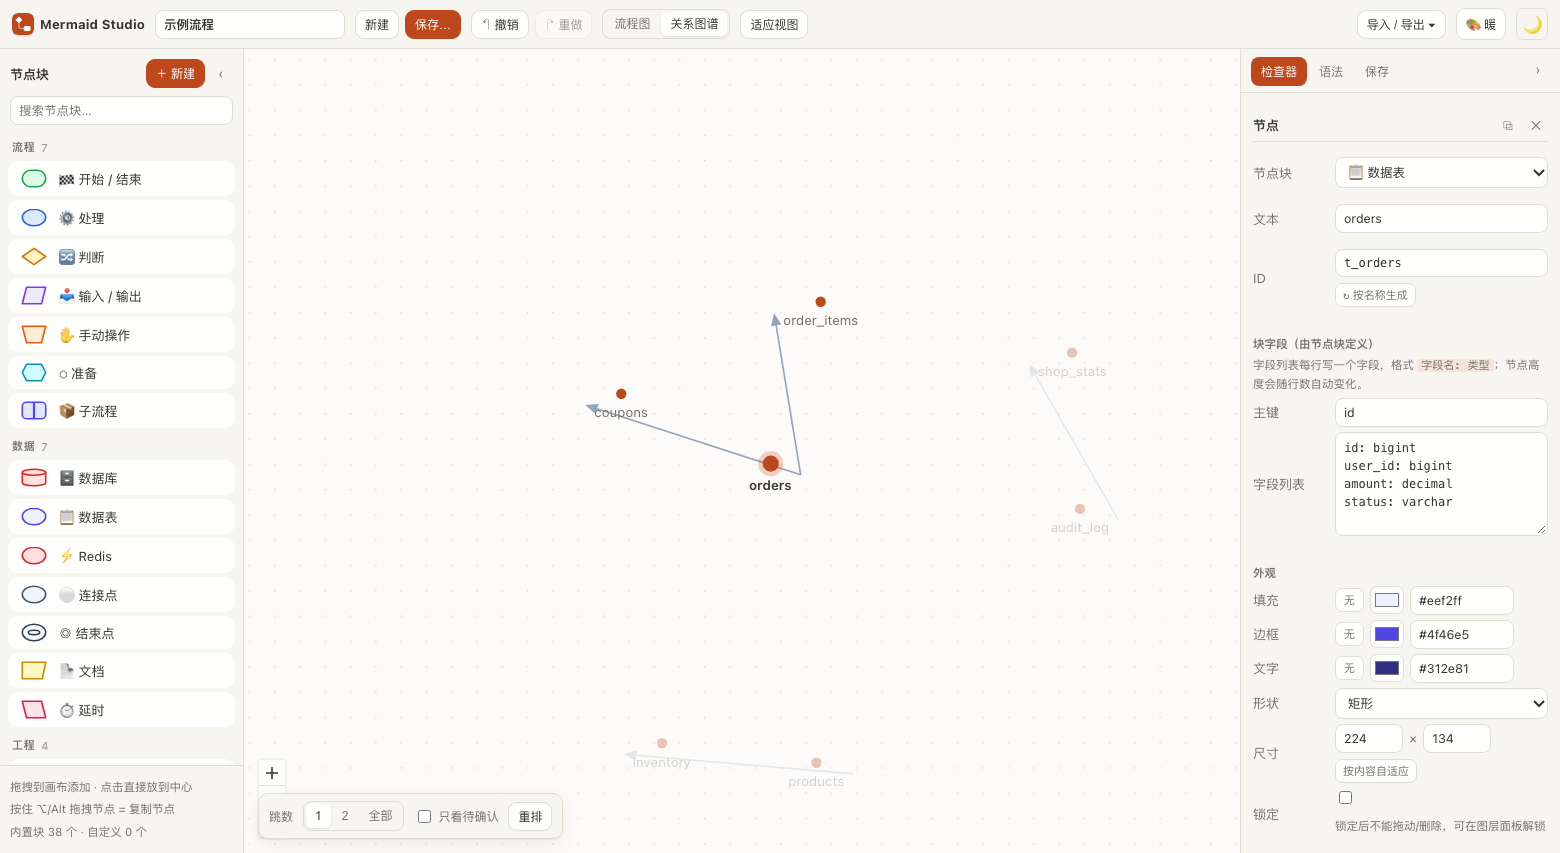
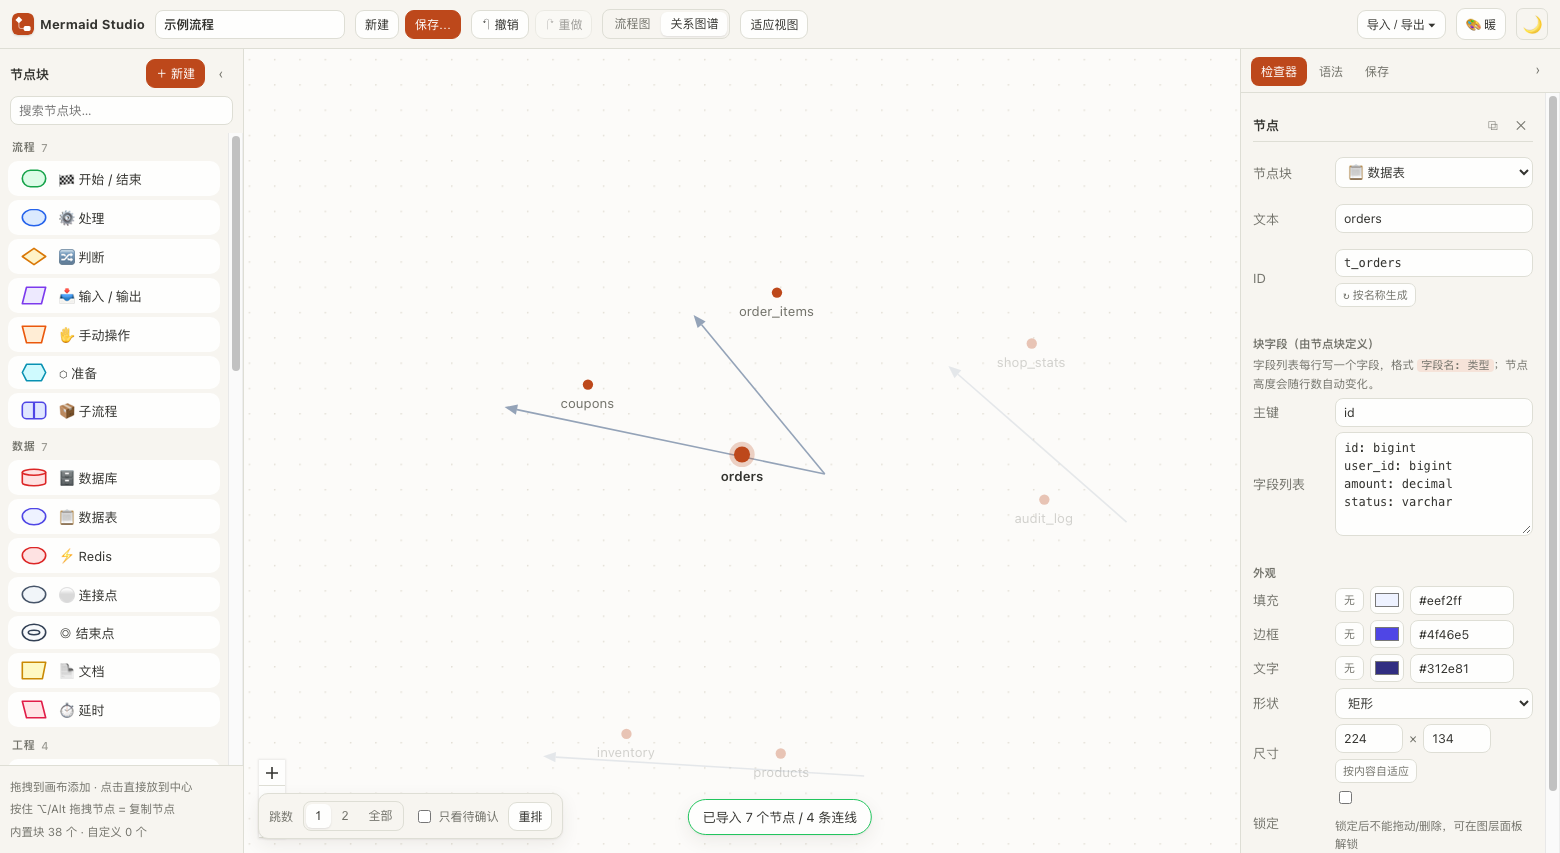
关系图谱：打开即圆心聚焦 + 节点可拖动
- 打开图谱就有焦点：流程图里选中的表（没有则度数最高的表），落在圆心
- 焦点钉在原点后，视口用自算缩放 + setCenter 把圆点摆到画布正中；
  不再 fitView 后再 setCenter（fitView 的动画会覆盖它，导致稳定偏一截）
- 统一坐标换算：布局算圆点中心，React Flow 的 position 是框左上角；节点框固定 140x56
- 节点可拖动：只写视图内的 overrides，不碰文档；「重排」清掉；焦点节点在重排那一刻才让位
- e2e 增加「打开即有焦点且在圆心」「拖动只移动该点」「拖动不写回文档」；全量 409 条通过
- 文档补两条实现坑（fitView 动画覆盖、左上角/中心换算）

diff --git a/src/components/GraphView.tsx b/src/components/GraphView.tsx
@@ -6,12 +6,13 @@ import {
   ReactFlow,
   ReactFlowProvider,
   useReactFlow,
+  type NodeChange,
 } from '@xyflow/react'
 import '@xyflow/react/dist/style.css'
 import { useStore } from '../store'
 import { getRfInstance, setRfInstance } from '../lib/rf'
 import { bfsHops, deriveGraphModel, graphSignature } from '../lib/graphModel'
-import { CARD_RADIUS, DOT_RADIUS, DEFAULT_SEED, layoutGraph } from '../lib/graphLayout'
+import { CARD_RADIUS, DOT_RADIUS, DEFAULT_SEED, defaultRootId, layoutGraph } from '../lib/graphLayout'
 import { GraphDotNode, type GraphDotNodeModel } from './GraphDotNode'
 import { GraphEdgeView, type GraphEdgeModel } from './GraphEdgeView'
 
@@ -28,6 +29,24 @@ const BUSY_NODES = 250
  */
 const FOCUS_DELAY_MS = 280
 
+/** 节点在画布上的固定占位框：圆点在顶部正中，名字在下面 */
+const NODE_W = 140
+const NODE_H = 56
+/** 圆点中心距节点框顶部的距离 */
+const DOT_ANCHOR_Y = 8
+
+type Point = { x: number; y: number }
+
+/** 布局算的是"圆点中心"，React Flow 的 position 是框的左上角 */
+function toNodePosition(center: Point): Point {
+  return { x: center.x - NODE_W / 2, y: center.y - DOT_ANCHOR_Y }
+}
+
+/** 反算：拖动后的框左上角 → 圆点中心 */
+function toAnchor(position: Point): Point {
+  return { x: position.x + NODE_W / 2, y: position.y + DOT_ANCHOR_Y }
+}
+
 type Depth = 1 | 2 | 'all'
 
 function GraphViewInner() {
@@ -35,18 +54,34 @@ function GraphViewInner() {
   const selectOnly = useStore((s) => s.selectOnly)
   const clearSelection = useStore((s) => s.clearSelection)
   const updateSettings = useStore((s) => s.updateSettings)
-  const { fitView, setCenter, getViewport } = useReactFlow()
+  const { setCenter } = useReactFlow()
+
+  /**
+   * 打开图谱时默认就有一个焦点：流程图里选中的表，否则取度数最高的表。
+   * 没有焦点时，一张链式的图会被摆成一条横线——那不叫"圆心聚焦"。
+   */
+  const [initialFocus] = useState<string | null>(() => {
+    const initialModel = deriveGraphModel(doc)
+    const selected = doc.nodes.find((n) => n.selected)?.id
+    if (selected && initialModel.nodes.some((n) => n.id === selected)) return selected
+    return defaultRootId(initialModel)
+  })
 
   /** 高亮用的焦点：立即生效 */
-  const [focusId, setFocusId] = useState<string | null>(null)
+  const [focusId, setFocusId] = useState<string | null>(initialFocus)
   /** 布局用的焦点：延迟生效，给双击留出窗口 */
-  const [layoutFocus, setLayoutFocus] = useState<string | null>(null)
+  const [layoutFocus, setLayoutFocus] = useState<string | null>(initialFocus)
   const focusTimer = useRef<number | null>(null)
   const [depth, setDepth] = useState<Depth>(1)
   const [onlyOpen, setOnlyOpen] = useState(false)
   const [expanded, setExpanded] = useState<string[]>([])
   const [seed, setSeed] = useState(DEFAULT_SEED)
   const expandedKey = expanded.join(',')
+  /**
+   * 手动拖动过的点：只存在视图里（不写回文档），布局重算时优先用这里的坐标。
+   * 这是"拖节点 = 把节点摆在我想看的位置"，不是编辑图结构。
+   */
+  const [overrides, setOverrides] = useState<Record<string, { x: number; y: number }>>({})
 
   const model = useMemo(() => deriveGraphModel(doc), [doc.nodes, doc.edges])
   const signature = useMemo(() => graphSignature(model), [model])
@@ -75,7 +110,30 @@ function GraphViewInner() {
       setLayoutFocus(null)
       return
     }
-    focusTimer.current = window.setTimeout(() => setLayoutFocus(id), FOCUS_DELAY_MS)
+    focusTimer.current = window.setTimeout(() => {
+      // 焦点要被钉到圆心，所以在真正重排的那一刻，才让出它自己的手动位置。
+      // 提前让出的话，节点会在第一下点击和双击的第二下之间跳走。
+      setOverrides((prev) => {
+        if (!(id in prev)) return prev
+        const next = { ...prev }
+        delete next[id]
+        return next
+      })
+      setLayoutFocus(id)
+    }, FOCUS_DELAY_MS)
+  }, [])
+
+  /** 拖动节点：只更新视图内的坐标，不碰文档、不进撤销栈 */
+  const onNodesChange = useCallback((changes: NodeChange[]) => {
+    const moves = changes.filter(
+      (c): c is Extract<NodeChange, { type: 'position' }> => c.type === 'position' && Boolean(c.position),
+    )
+    if (!moves.length) return
+    setOverrides((prev) => {
+      const next = { ...prev }
+      for (const m of moves) if (m.position) next[m.id] = toAnchor(m.position)
+      return next
+    })
   }, [])
 
   useEffect(
@@ -103,8 +161,9 @@ function GraphViewInner() {
         return {
           id: n.id,
           type: 'dot',
-          position: positions.get(n.id) ?? { x: 0, y: 0 },
-          draggable: false,
+          position: toNodePosition(overrides[n.id] ?? positions.get(n.id) ?? { x: 0, y: 0 }),
+          width: NODE_W,
+          height: NODE_H,
           connectable: false,
           data: {
             label: n.label,
@@ -118,7 +177,7 @@ function GraphViewInner() {
           },
         }
       }),
-    [model, hops, focusId, depth, positions, expanded, toggleExpand],
+    [model, hops, focusId, depth, positions, expanded, toggleExpand, overrides],
   )
 
   const dimIds = useMemo(
@@ -149,22 +208,41 @@ function GraphViewInner() {
   // 卸载时把单例清掉：否则"双击回流程图"的第一帧会对着已经卸载的画布 fitView
   useEffect(() => () => setRfInstance(null), [])
 
-  // 挂载 / 重排：把整张图装进视口。
-  // 展开不重新 fit——展开一张卡片就把镜头拉远，会毁掉"焦点在圆心"这件事
+  /**
+   * 视口：有焦点时把焦点（布局原点）摆到画布正中心，没焦点时把整张图摆中间。
+   * 缩放自己算，不用 fitView 之后再 setCenter——fitView 带动画、promise 不等动画结束，
+   * 后到的 setCenter 会被它的动画覆盖掉（这就是之前怎么调都偏一截的原因）。
+   */
   useEffect(() => {
-    fitView({ padding: 0.3, duration: 260, maxZoom: 1.15 })
-  }, [seed, fitView])
-
-  // 换焦点：焦点被钉在原点，所以把原点摆到视口中心，这就是"圆心聚焦"；
-  // 取消焦点时回到"整张图装进视口"
-  useEffect(() => {
-    if (!layoutFocus) {
-      fitView({ padding: 0.3, duration: 260, maxZoom: 1.15 })
-      return
+    const container = document.querySelector<HTMLElement>('.ms-canvas--graph .react-flow')
+    const width = container?.clientWidth ?? 900
+    const height = container?.clientHeight ?? 600
+    let minX = Infinity
+    let maxX = -Infinity
+    let minY = Infinity
+    let maxY = -Infinity
+    for (const n of model.nodes) {
+      const c = overrides[n.id] ?? positions.get(n.id)
+      if (!c) continue
+      minX = Math.min(minX, c.x)
+      maxX = Math.max(maxX, c.x)
+      minY = Math.min(minY, c.y)
+      maxY = Math.max(maxY, c.y)
     }
-    const zoom = Math.max(0.6, Math.min(1.2, getViewport().zoom))
-    setCenter(0, 0, { zoom, duration: 260 })
-  }, [layoutFocus, setCenter, getViewport, fitView])
+    if (!Number.isFinite(minX)) return
+    const PAD = 80
+    const zoom = Math.max(
+      0.1,
+      Math.min(
+        1.15,
+        (width - PAD * 2) / Math.max(1, maxX - minX + NODE_W),
+        (height - PAD * 2) / Math.max(1, maxY - minY + NODE_H),
+      ),
+    )
+    if (layoutFocus) setCenter(0, 0, { zoom, duration: 200 })
+    else setCenter((minX + maxX) / 2, (minY + maxY) / 2, { zoom, duration: 200 })
+    // eslint-disable-next-line react-hooks/exhaustive-deps
+  }, [layoutFocus, seed, setCenter])
 
   useEffect(() => {
     const onKey = (e: KeyboardEvent) => {
@@ -216,6 +294,7 @@ function GraphViewInner() {
         nodeTypes={nodeTypes}
         edgeTypes={edgeTypes}
         onInit={(inst) => setRfInstance(inst)}
+        onNodesChange={onNodesChange}
         onNodeClick={(e, n) => {
           // 双击的第二下 click 带 detail=2：用它回到流程图并定位（比 onNodeDoubleClick 稳）
           if (e.detail >= 2) {
@@ -231,14 +310,12 @@ function GraphViewInner() {
           scheduleLayoutFocus(null)
           clearSelection()
         }}
-        nodesDraggable={false}
         nodesConnectable={false}
         edgesFocusable={false}
         elementsSelectable={false}
         minZoom={0.1}
         maxZoom={2.5}
-        fitView
-        fitViewOptions={{ padding: 0.3, maxZoom: 1.15 }}
+        /* 不传 fitView：初始化时的自动 fit 会把下面"把焦点摆到圆心"的 setCenter 覆盖掉 */
         proOptions={{ hideAttribution: true }}
       >
         <Background variant={BackgroundVariant.Dots} gap={22} size={1.4} color="var(--grid-dot)" />
@@ -272,7 +349,14 @@ function GraphViewInner() {
           <input type="checkbox" checked={onlyOpen} onChange={(e) => setOnlyOpen(e.target.checked)} />
           只看待确认
         </label>
-        <button className="ms-btn ms-btn--sm" onClick={() => setSeed(Date.now() % 100000)} title="重新排一次">
+        <button
+          className="ms-btn ms-btn--sm"
+          onClick={() => {
+            setOverrides({})
+            setSeed(Date.now() % 100000)
+          }}
+          title="重新排一次（清掉手动摆放）"
+        >
           重排
         </button>
       </div>

diff --git a/src/lib/graphLayout.ts b/src/lib/graphLayout.ts
@@ -45,7 +45,7 @@ const DEFAULTS: Required<Omit<LayoutOptions, 'radiusOf' | 'rootId'>> = {
 }
 
 /** 没有焦点时选一个根：度数最高，同分取模型里靠前的 */
-function pickRoot(model: GraphModel): string | null {
+export function defaultRootId(model: GraphModel): string | null {
   let bestId: string | null = null
   let bestDegree = -1
   for (const n of model.nodes) {
@@ -75,7 +75,7 @@ export function layoutGraph(model: GraphModel, opts: LayoutOptions = {}): Map<st
   if (!count) return out
 
   const root =
-    opts.rootId && model.neighbors.has(opts.rootId) ? opts.rootId : pickRoot(model)
+    opts.rootId && model.neighbors.has(opts.rootId) ? opts.rootId : defaultRootId(model)
   if (!root) return out
 
   const hops = bfsHops(model, root)

diff --git a/src/styles.css b/src/styles.css
@@ -2415,11 +2415,14 @@ body.ms-space-pan .react-flow__pane.dragging {
 
 .ms-gdot {
   position: relative;
+  box-sizing: border-box;
+  width: 100%;
+  height: 100%;
   display: flex;
   flex-direction: column;
   align-items: center;
   gap: 6px;
-  padding: 4px 6px;
+  padding: 4px 8px;
   cursor: pointer;
   user-select: none;
   transition: opacity 0.18s ease;

diff --git a/src/components/GraphDotNode.tsx b/src/components/GraphDotNode.tsx
@@ -69,7 +69,7 @@ function GraphDotNodeInner({ id, data }: NodeProps<GraphDotNodeModel>) {
       ) : null}
 
       <button
-        className="ms-gdot__toggle"
+        className="ms-gdot__toggle nodrag"
         title={data.expanded ? '收起字段' : '展开字段'}
         aria-label={data.expanded ? '收起字段' : '展开字段'}
         onClick={(e) => {

diff --git a/README.md b/README.md
@@ -618,7 +618,9 @@ src/
 
 ### 2. 怎么用
 
-- **单击一张表**：它成为焦点并移到圆心，1 跳邻居浮出来，其余压暗到 30%（**压暗不是隐藏**，随时能点回来）。为了不把双击抢掉，重排会延迟 280ms 才发生。
+- **打开就有焦点**：流程图里选中的表（没有选中就是度数最高的表）直接落在圆心，1 跳邻居浮出来，其余压暗到 30%（**压暗不是隐藏**，随时能点回来）。
+- **单击一张表**：它成为焦点并移到圆心。为了不把双击抢掉，重排会延迟 280ms 才发生。
+- **拖动节点**：手动把某个点摆到想看的空白处（只存在视图里，不写回文档；点「重排」清掉）。拖动空白处或按住空格拖动都是平移画布。
 - **跳数**：左下角「1 / 2 / 全部」（或键盘 `1` / `2` / `0`）。"1 跳看见谁、2 跳又多出谁"是可以数的动作——这正是排查依赖的用法。
 - **点空白**：取消焦点，回到整张图装进视口。（`Esc` 同效）
 - **双击一张表**：切回流程图并定位到它（选中 + 视口对准）。
@@ -651,7 +653,7 @@ src/
 
 ## 十、自动化验证
 
-二十一组基于 Chrome DevTools Protocol 的端到端脚本，共 **406 项断言**（建块→用块→序列化→保存→刷新仍在→导入→往返→撤销→布局→预览→深浅色主题→拖拽→重连→多文档→真鼠标框选→一键编组→拖动/缩放分组→图层隐藏锁定调序→颜色「无」→数据表字段编辑与四向端口→指定端口连线→角色/主题两栏→保存弹框与 .md 内容→选位置写入与自动保存→单击选连线→双击改标签→连线跟随节点移动/缩放→拖入自动选中→颜色行无重置按钮→⌥/Alt 拖拽复制→七个固定 classDef 的颜色与类名→md frontmatter→存疑清单逐条对应虚线→手写勾选与历史变更记录在重新导出后保留→自动保存不动版本号→定时任务 / MQ / Redis 三个新块→Redis 的 JSON 渲染与格式化校验→导入后字段还原→十种块的语义 ID 前缀→检查器里人工改名→改名后连线与分组不断→重名保护与非法字符清洗→导出导入 ID 稳定→12 组前缀组合的类型推荐→类型+说明两段式标签→不合规识别与一键补全→类型下拉→别名归一化→全量备份导出→清空本地数据→从备份恢复（图表+自定义块+设置）→刷新仍在→重复导入不覆盖→渲染引擎默认 pele→pele 渲染保真→二次渲染耗时→深色变量不重渲→导出 SVG 自带主题→切回 mermaid 仍可用→皮肤默认暖色→变量/背景/主按钮跟随→预览与导出的主题同步→一键切冷色→持久化→暖色×深色组合→**全部节点卡片化（shape SVG 归零）→卡片投影/圆角/细描边→选中外环用主色半透明且不染描边→药丸标签→深色下投影仍生效→处理节点渲染成卡片（600 字重标题 / Mermaid 输出不变）→处理节点两行 topic（状态 + 函数名，10px/400 居中，进入 <br/> 标签并可反向导入）→所有节点连接点默认隐藏、悬停才出现→双击编辑光标落文字末尾→编辑时鼠标划字不拖动节点→默认箭头光标与空格拖拽手型→输入框里按空格不切手型→**剧本导入（3 事件/4 变更）与表自动匹配→未回放时保持字段:类型→拖动播放头后表节点显示字段:值且不写回文档→播放时播放头前进+连线闪烁+锁定双击编辑→重置恢复字段:类型→取消核心表/删除事件后导出只含保留内容→未绑定表不导出→删除事件可恢复→快照格式导入逐字段 diff→仓库自带 demo 图/剧本可直接导入且全部匹配→**元素编号 T01–T13 目录 / 代码标记 / 各视图可见性一致→甘特条与左侧事件名逐行对齐→**数据表字段里的 <font color> 富文本渲染并原样进入 Mermaid**→连接口默认上进下出 / 左进右出（导入、切方向翻面、人工指定不被覆盖、老文档自动补端口、导出不携带端口信息）→子图导入后包住全部成员（含嵌套、盒子尺寸与数据一致）→分组垫在节点下面、点节点能选中节点→组内也是从上到下的连线→节点顺序从上到下→自动布局后依然成立→导出保留 subgraph 嵌套→**导入时长标题把节点撑宽、不被省略号截断（短标题保持默认宽）**→**真实复杂图（3 分组 + 28 节点 + 平行边）导入不再崩、分组全包含、点节点不被分组挡、`&` 并列展开成多条边、引号标签清洗、往返稳定**→选中连线后两端节点的连接头常显、用到的那个口高亮、端点节点抬到最上层、取消选中后恢复隐藏→右侧标签条在面板内部、只剩三项（检查器/语法/保存）、相邻标签间隙实测 2px→**新建连线默认空白（无类型/无标签、标为不合规）→按推荐补全后类型正确**→**顶栏不再展示自动保存状态、保存弹框没有自动保存开关、保存目标记在当前图表名下、新建后不写进旧文件**→**选中连线出现＋走位手柄、拖出拐点走折线、拖拐点改走向、检查器显示拐点数并一键清除、双击删拐点、拐点不写进 Mermaid**→**左栏/右栏可收起（画布变宽、留展开条）、可再展开、两栏都收起时画布铺满且无横向溢出**→**有拐点时连线保持直角、拖动节点后自动重排仍无斜线段**→**每条段都有＋可继续加拐点（1 个拐点时 2 个＋、可加到 2 个）、拐点与标签同坐标时拐点在最上层且能拖动**→**关系图谱（分组框/隐藏表/无连线注释不进图→圆点 + 表名在下面→单点聚焦 1 跳亮其余压暗→焦点被摆到圆心→2 跳放大范围→点空白还原→展开成只读表卡片→双击回流程图并定位→切走切回坐标逐字节不变→隐藏状态不被改写→视图模式只进 settings 不进文档→刷新后仍在图谱）**）：
+二十一组基于 Chrome DevTools Protocol 的端到端脚本，共 **409 项断言**（建块→用块→序列化→保存→刷新仍在→导入→往返→撤销→布局→预览→深浅色主题→拖拽→重连→多文档→真鼠标框选→一键编组→拖动/缩放分组→图层隐藏锁定调序→颜色「无」→数据表字段编辑与四向端口→指定端口连线→角色/主题两栏→保存弹框与 .md 内容→选位置写入与自动保存→单击选连线→双击改标签→连线跟随节点移动/缩放→拖入自动选中→颜色行无重置按钮→⌥/Alt 拖拽复制→七个固定 classDef 的颜色与类名→md frontmatter→存疑清单逐条对应虚线→手写勾选与历史变更记录在重新导出后保留→自动保存不动版本号→定时任务 / MQ / Redis 三个新块→Redis 的 JSON 渲染与格式化校验→导入后字段还原→十种块的语义 ID 前缀→检查器里人工改名→改名后连线与分组不断→重名保护与非法字符清洗→导出导入 ID 稳定→12 组前缀组合的类型推荐→类型+说明两段式标签→不合规识别与一键补全→类型下拉→别名归一化→全量备份导出→清空本地数据→从备份恢复（图表+自定义块+设置）→刷新仍在→重复导入不覆盖→渲染引擎默认 pele→pele 渲染保真→二次渲染耗时→深色变量不重渲→导出 SVG 自带主题→切回 mermaid 仍可用→皮肤默认暖色→变量/背景/主按钮跟随→预览与导出的主题同步→一键切冷色→持久化→暖色×深色组合→**全部节点卡片化（shape SVG 归零）→卡片投影/圆角/细描边→选中外环用主色半透明且不染描边→药丸标签→深色下投影仍生效→处理节点渲染成卡片（600 字重标题 / Mermaid 输出不变）→处理节点两行 topic（状态 + 函数名，10px/400 居中，进入 <br/> 标签并可反向导入）→所有节点连接点默认隐藏、悬停才出现→双击编辑光标落文字末尾→编辑时鼠标划字不拖动节点→默认箭头光标与空格拖拽手型→输入框里按空格不切手型→**剧本导入（3 事件/4 变更）与表自动匹配→未回放时保持字段:类型→拖动播放头后表节点显示字段:值且不写回文档→播放时播放头前进+连线闪烁+锁定双击编辑→重置恢复字段:类型→取消核心表/删除事件后导出只含保留内容→未绑定表不导出→删除事件可恢复→快照格式导入逐字段 diff→仓库自带 demo 图/剧本可直接导入且全部匹配→**元素编号 T01–T13 目录 / 代码标记 / 各视图可见性一致→甘特条与左侧事件名逐行对齐→**数据表字段里的 <font color> 富文本渲染并原样进入 Mermaid**→连接口默认上进下出 / 左进右出（导入、切方向翻面、人工指定不被覆盖、老文档自动补端口、导出不携带端口信息）→子图导入后包住全部成员（含嵌套、盒子尺寸与数据一致）→分组垫在节点下面、点节点能选中节点→组内也是从上到下的连线→节点顺序从上到下→自动布局后依然成立→导出保留 subgraph 嵌套→**导入时长标题把节点撑宽、不被省略号截断（短标题保持默认宽）**→**真实复杂图（3 分组 + 28 节点 + 平行边）导入不再崩、分组全包含、点节点不被分组挡、`&` 并列展开成多条边、引号标签清洗、往返稳定**→选中连线后两端节点的连接头常显、用到的那个口高亮、端点节点抬到最上层、取消选中后恢复隐藏→右侧标签条在面板内部、只剩三项（检查器/语法/保存）、相邻标签间隙实测 2px→**新建连线默认空白（无类型/无标签、标为不合规）→按推荐补全后类型正确**→**顶栏不再展示自动保存状态、保存弹框没有自动保存开关、保存目标记在当前图表名下、新建后不写进旧文件**→**选中连线出现＋走位手柄、拖出拐点走折线、拖拐点改走向、检查器显示拐点数并一键清除、双击删拐点、拐点不写进 Mermaid**→**左栏/右栏可收起（画布变宽、留展开条）、可再展开、两栏都收起时画布铺满且无横向溢出**→**有拐点时连线保持直角、拖动节点后自动重排仍无斜线段**→**每条段都有＋可继续加拐点（1 个拐点时 2 个＋、可加到 2 个）、拐点与标签同坐标时拐点在最上层且能拖动**→**关系图谱（分组框/隐藏表/无连线注释不进图→圆点 + 表名在下面→打开即有焦点且落在圆心→拖动节点只移动该点且不写回文档→单点聚焦 1 跳亮其余压暗→焦点被摆到圆心→2 跳放大范围→点空白还原→展开成只读表卡片→双击回流程图并定位→切走切回坐标逐字节不变→隐藏状态不被改写→视图模式只进 settings 不进文档→刷新后仍在图谱）**）：
 
 ```bash
 npm run dev                 # 终端 A

diff --git a/docs/adr/0003-graph-view-derived.md b/docs/adr/0003-graph-view-derived.md
@@ -15,7 +15,7 @@
 
 ## Consequences
 
-- 图谱的坐标、展开状态、跳数档位都是易失的；刷新后回到全图，需要重新聚焦。这是刻意的：空间记忆让位于"文档不被视图污染"。
+- 图谱的坐标、手动摆放（拖动节点）、展开状态、跳数档位都是易失的；刷新后回到全图，需要重新聚焦。这是刻意的：空间记忆让位于"文档不被视图污染"。
 - 布局必须可复现（固定种子 + 按结构签名缓存），否则每次切换都换形状，人会失去判断依据。
 - 图谱模式下判据是"点节点不渲染字段"，剧本回放看不见效果，因此剧本面板在该模式下收起。
 - 后续若要让图谱可编辑，等于引入第二个编辑器：连线端口、标签规范、拐点、`&` 展开都要重做。那是一条独立的路，不在本决定范围。
